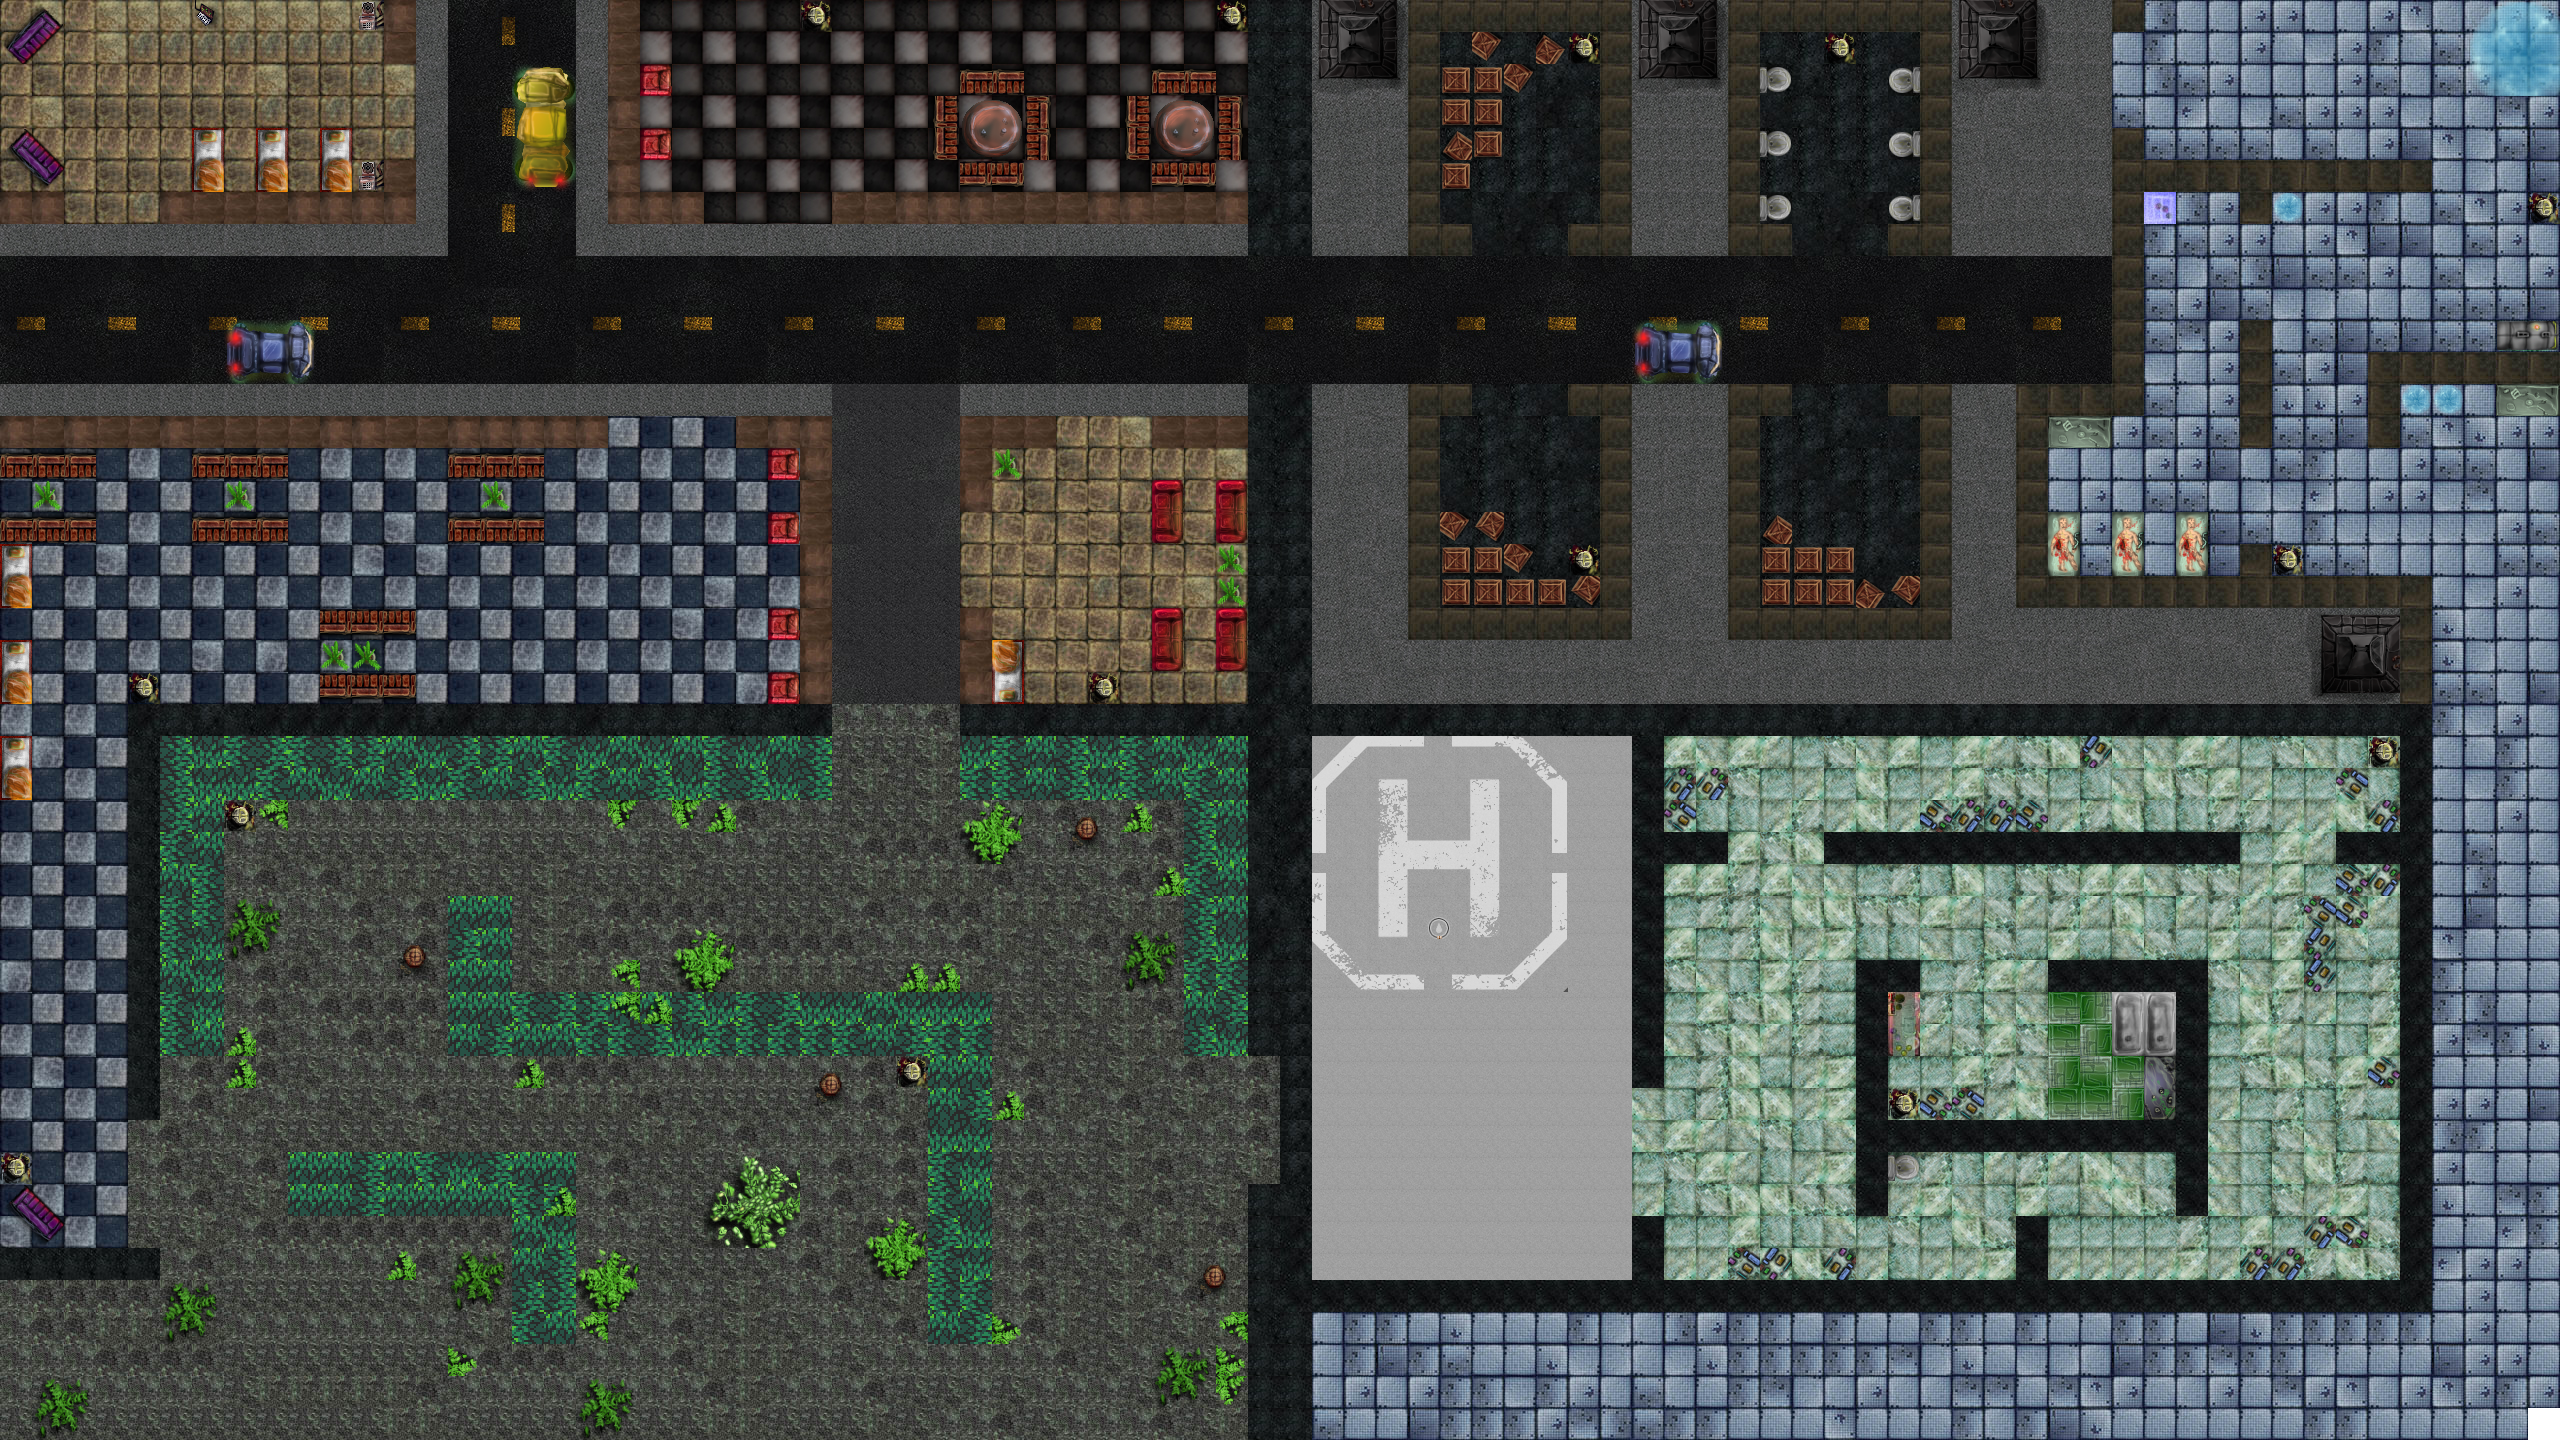
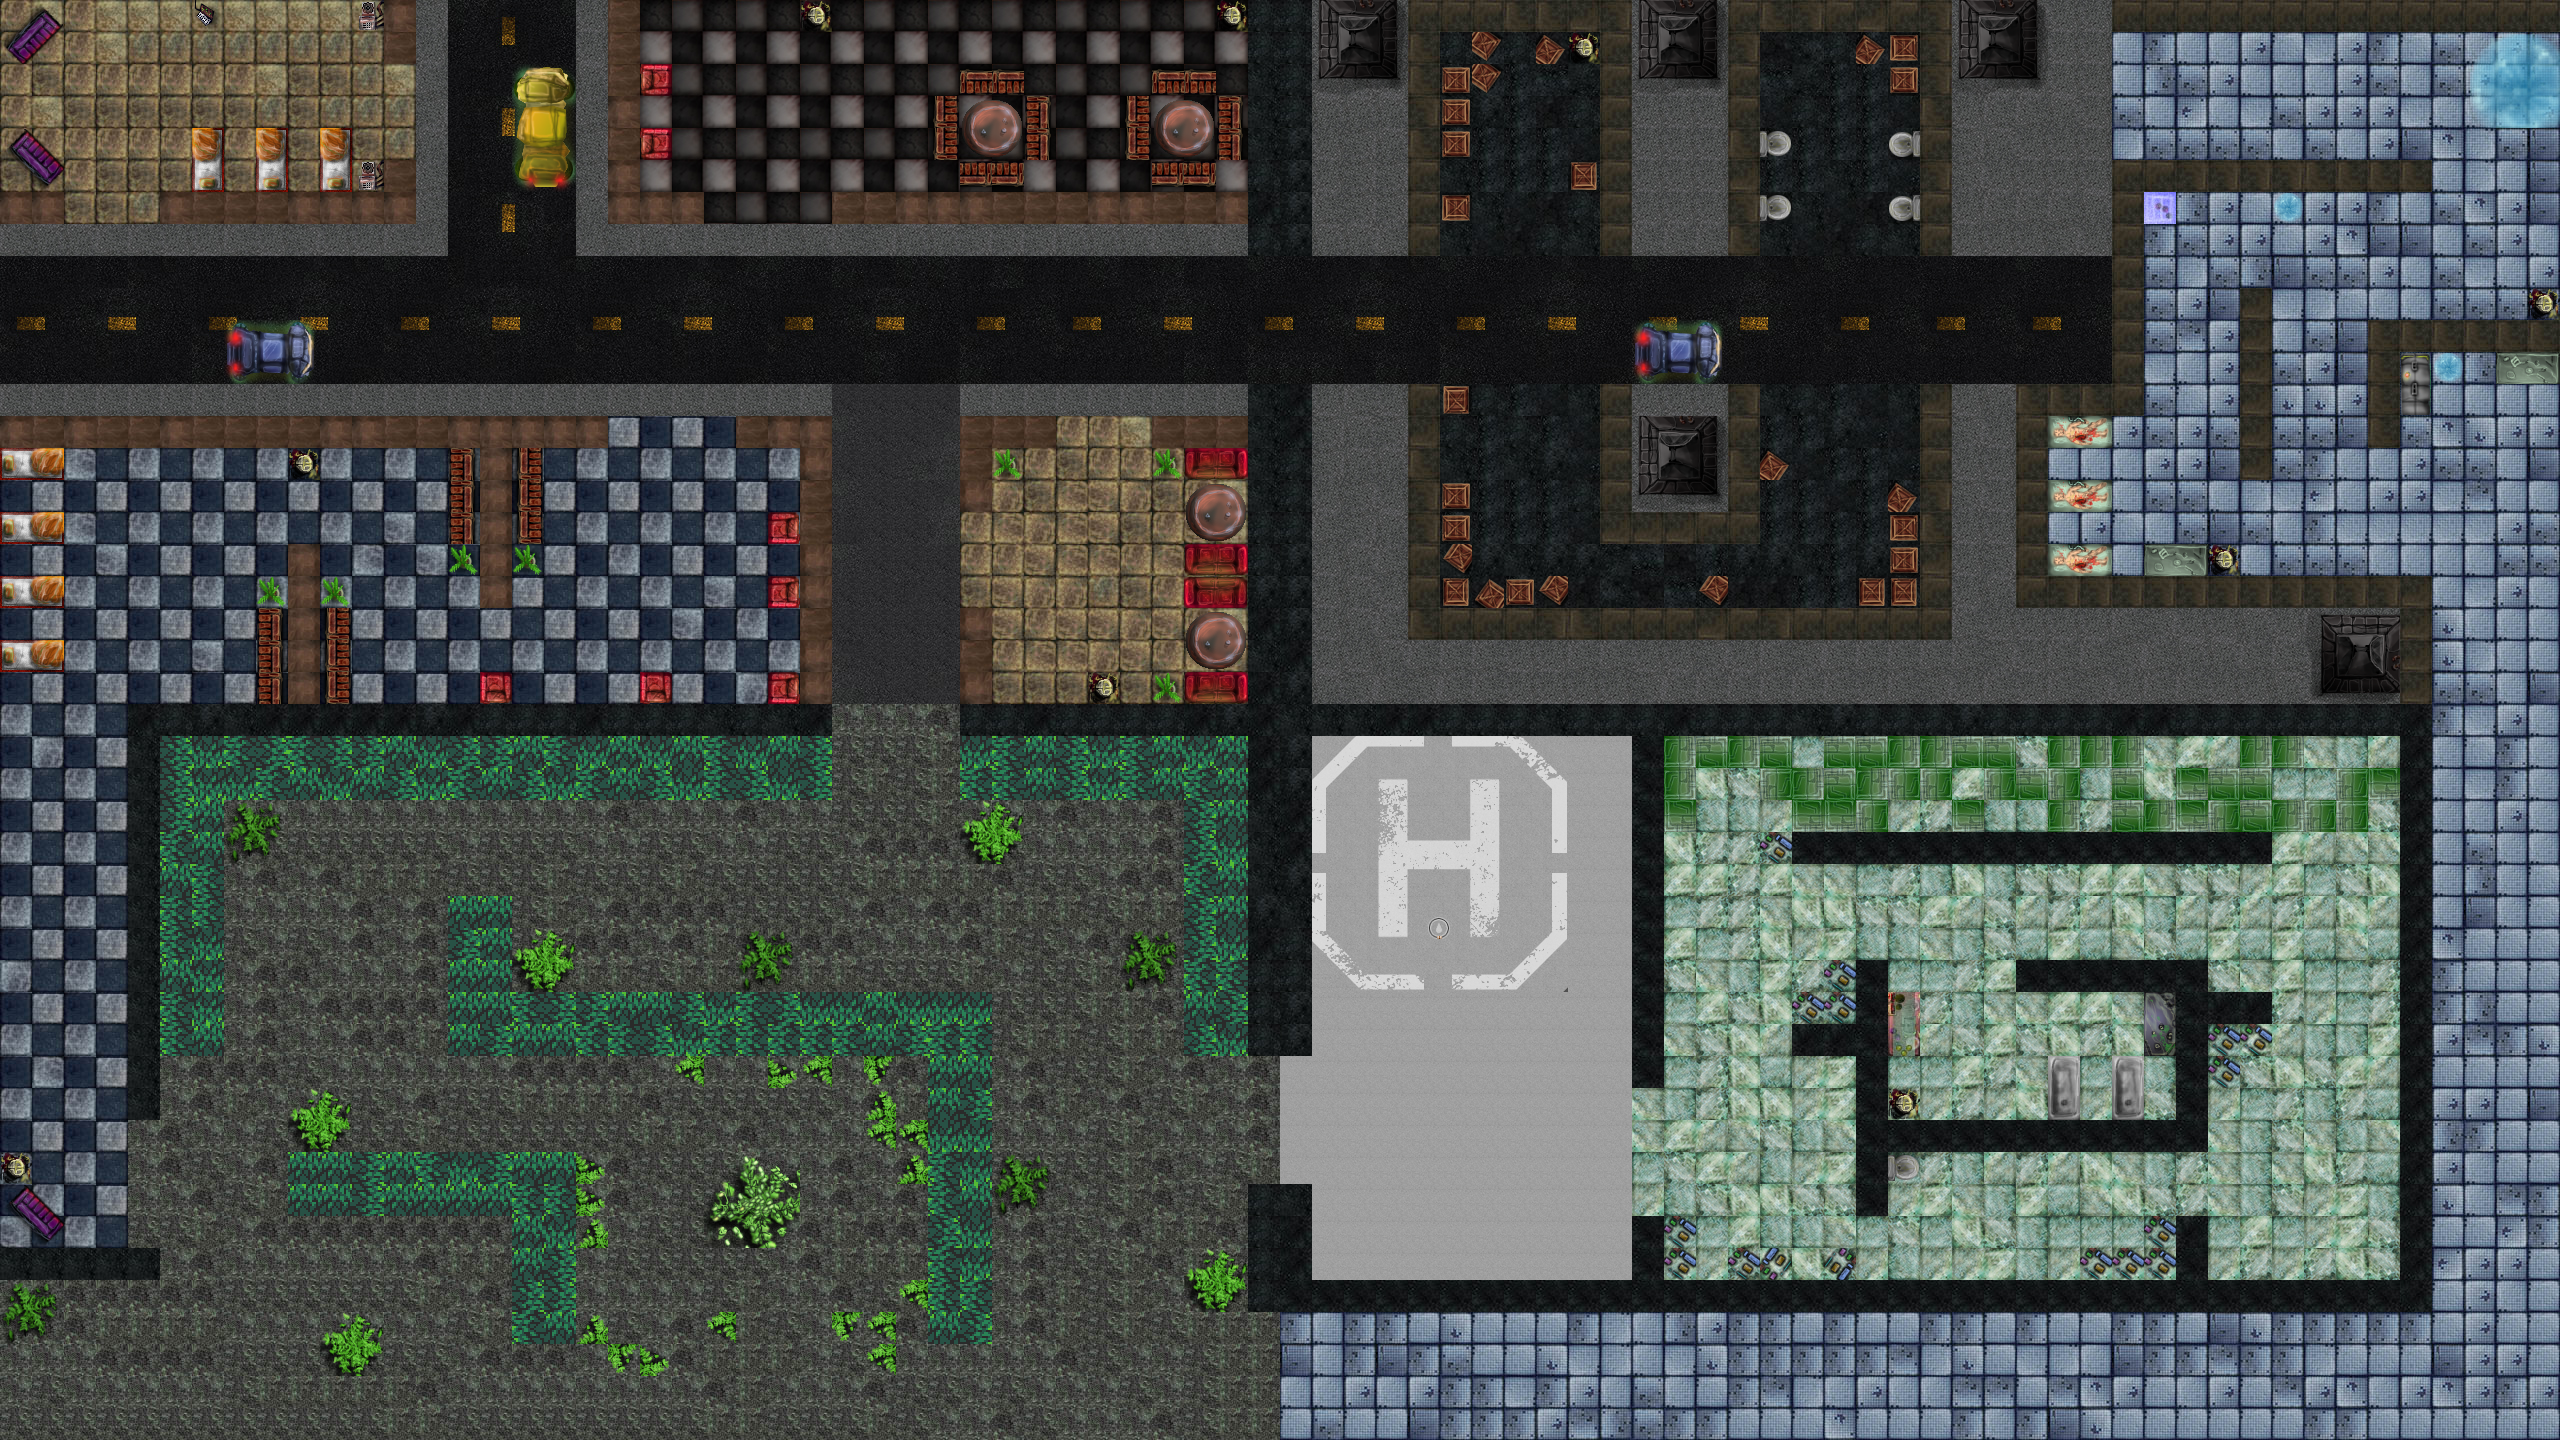
-Added a YOU DIED message -Outlined round counter -Fixed how zomibes do damage

diff --git a/Play.cpp b/Play.cpp
@@ -24,56 +24,44 @@ void spawnZombies(sf::Vector2u size, Player* p1) {
     for (int i = 0; i < 3 * rounds + 5; i++) {
         sf::Vector2f v;
         int x = rand();
-        if (p1->getPosition().x < 1280 && p1->getPosition().y > 720) //bottom left
-        {
-            if (x % 2 == 0)
-            {
-                v.x = 35 * 32;
-                v.y = 28 * 32;
+        if (p1->getPosition().x < 1280 && p1->getPosition().y > 720) { //bottom left
+            if (x % 2 == 0){
+                v.x = 0 * 32;
+                v.y = 43 * 32;
             }
-            else
-            {
-                v.x = 12 * 32;
-                v.y = 41 * 32;
+            else {
+                v.x = 32 * 32;
+                v.y = 44 * 32;
             }
         }
-        else if (p1->getPosition().x > 1280 && p1->getPosition().y < 720) //top right
-        {
-            if (x % 2 == 0)
-            {
+        else if (p1->getPosition().x > 1280 && p1->getPosition().y < 720) { //top right
+            if (x % 2 == 0) {
                 v.x = 58 * 32;
                 v.y = 5 * 32;
             }
-            else
-            {
+            else {
                 v.x = 70 * 32;
                 v.y = 3 * 32;
             }
         }
-        else if (p1->getPosition().x > 1280 && p1->getPosition().y > 720) //bottom right
-        {
-            if (x % 2 == 0)
-            {
+        else if (p1->getPosition().x > 1280 && p1->getPosition().y > 720) { //bottom right
+            if (x % 2 == 0) {
                 v.x = (40+5) * 32;
                 v.y = (23+4) * 32;
             }
-            else
-            {
+            else {
                 v.x = (40+33) * 32;
                 v.y = (23+8) * 32;
             }
         }
-        else if (p1->getPosition().x < 1280 && p1->getPosition().y < 720) //top left
-        {
-            if (x % 2 == 0)
-            {
-                v.x = 5 * 32;
-                v.y = 4 * 32;
+        else if (p1->getPosition().x < 1280 && p1->getPosition().y < 720) { //top left
+            if (x % 2 == 0){
+                v.x = 16 * 32;
+                v.y = 0 * 32;
             }
-            else
-            {
-                v.x = 35 * 32;
-                v.y = 17 * 32;
+            else{
+                v.x = 0 * 32;
+                v.y = 10 * 32;
             }
         }
         zombies.push_back(new Zombie(20, 1, 1, size, v));
@@ -257,6 +245,7 @@ void run(sf::RenderWindow& window, sf::View& view){
                 roundCountTimer = clock();
                 displayMenu = false;
                 rounds++;
+                p1->setHealth(p1->getMaxHealth());
             }
             if (loadFont)
             {
@@ -265,6 +254,8 @@ void run(sf::RenderWindow& window, sf::View& view){
                 textDisplay.setString(display);
                 textDisplay.setCharacterSize(100);
                 textDisplay.setFillColor(sf::Color(94, 1, 6));
+                textDisplay.setOutlineColor(sf::Color::Black);
+                textDisplay.setOutlineThickness(4);
                 textDisplay.setOrigin(textDisplay.getLocalBounds().width / 2, textDisplay.getLocalBounds().height / 2);
                 textDisplay.setPosition(view.getCenter().x, view.getCenter().y-300);
                 window.draw(textDisplay);
@@ -277,6 +268,30 @@ void run(sf::RenderWindow& window, sf::View& view){
                 std::cout << "Round " << rounds << std::endl;
                 roundCountTimer = clock();
             }
+        }
+        if (p1->getHealth() < 1)
+        {
+            textDisplay.setFont(font);
+            textDisplay.setString("YOU DIED!");
+            textDisplay.setCharacterSize(400);
+            textDisplay.setFillColor(sf::Color(94, 1, 6));
+            textDisplay.setOutlineColor(sf::Color::Black);
+            textDisplay.setOutlineThickness(5);
+            textDisplay.setOrigin(textDisplay.getLocalBounds().width/2, textDisplay.getLocalBounds().height/2);
+            if (p1->getPosition().x < 1280 && p1->getPosition().y > 720) {//bottom left
+                textDisplay.setPosition(1280 / 2, 720 + 720 / 2);
+            }
+            else if (p1->getPosition().x > 1280 && p1->getPosition().y < 720) {//top right
+                textDisplay.setPosition(1280 + 1280 / 2, 720 / 2);
+            }
+            else if (p1->getPosition().x > 1280 && p1->getPosition().y > 720) {//bottom right
+                textDisplay.setPosition(1280 + 1280 / 2, 720 + 720 / 2);
+            }
+            else if (p1->getPosition().x < 1280 && p1->getPosition().y < 720) {//top left
+                textDisplay.setPosition(1280 / 2, 720 / 2);
+            }
+            window.draw(textDisplay);
+
         }
         //window.setView(view);
         window.display();

diff --git a/Zombie.cpp b/Zombie.cpp
@@ -71,7 +71,6 @@ void Zombie::getMove(Player* p1, sf::Vector2f pos) {
         result = this->sprite.getRotation();
     }
     this->sprite.setRotation(result);
-    this->reload++;
 }
 
 sf::Sprite Zombie::getSprite() {
@@ -83,7 +82,12 @@ int Zombie::getDamage() {
 }
 
 int Zombie::getReload() {
-    return this->reload % 64;
+    int result = 1;
+    if (clock() - reload > 750) {
+        result = 0;
+        this->reload = clock();
+    }
+    return result;
 }
 
 int Zombie::getHealth() {
@@ -95,8 +99,15 @@ void Zombie::setHealth(int health) {
 }
 
 void Zombie::attack(Player* p1) {
-    Sleep(1500);
-    if (this->sprite.getGlobalBounds().intersects(p1->getSprite().getGlobalBounds())) {
+    Sleep(0.5);
+    double size = 0.75;
+    //makes the collision box for the player change size by a factor of size
+    sf::FloatRect pSafeZone = p1->getSprite().getGlobalBounds();
+    pSafeZone.top += ((pSafeZone.height / 2) - (pSafeZone.height * size / 2));
+    pSafeZone.left += ((pSafeZone.width / 2) - (pSafeZone.width * size / 2));
+    pSafeZone.height = pSafeZone.height * size;
+    pSafeZone.width = pSafeZone.width * size;
+    if (this->sprite.getGlobalBounds().intersects(pSafeZone)) {
         p1->setHealth(p1->getHealth() - this->getDamage());
         std::cout << p1->getHealth() << std::endl;
     }
